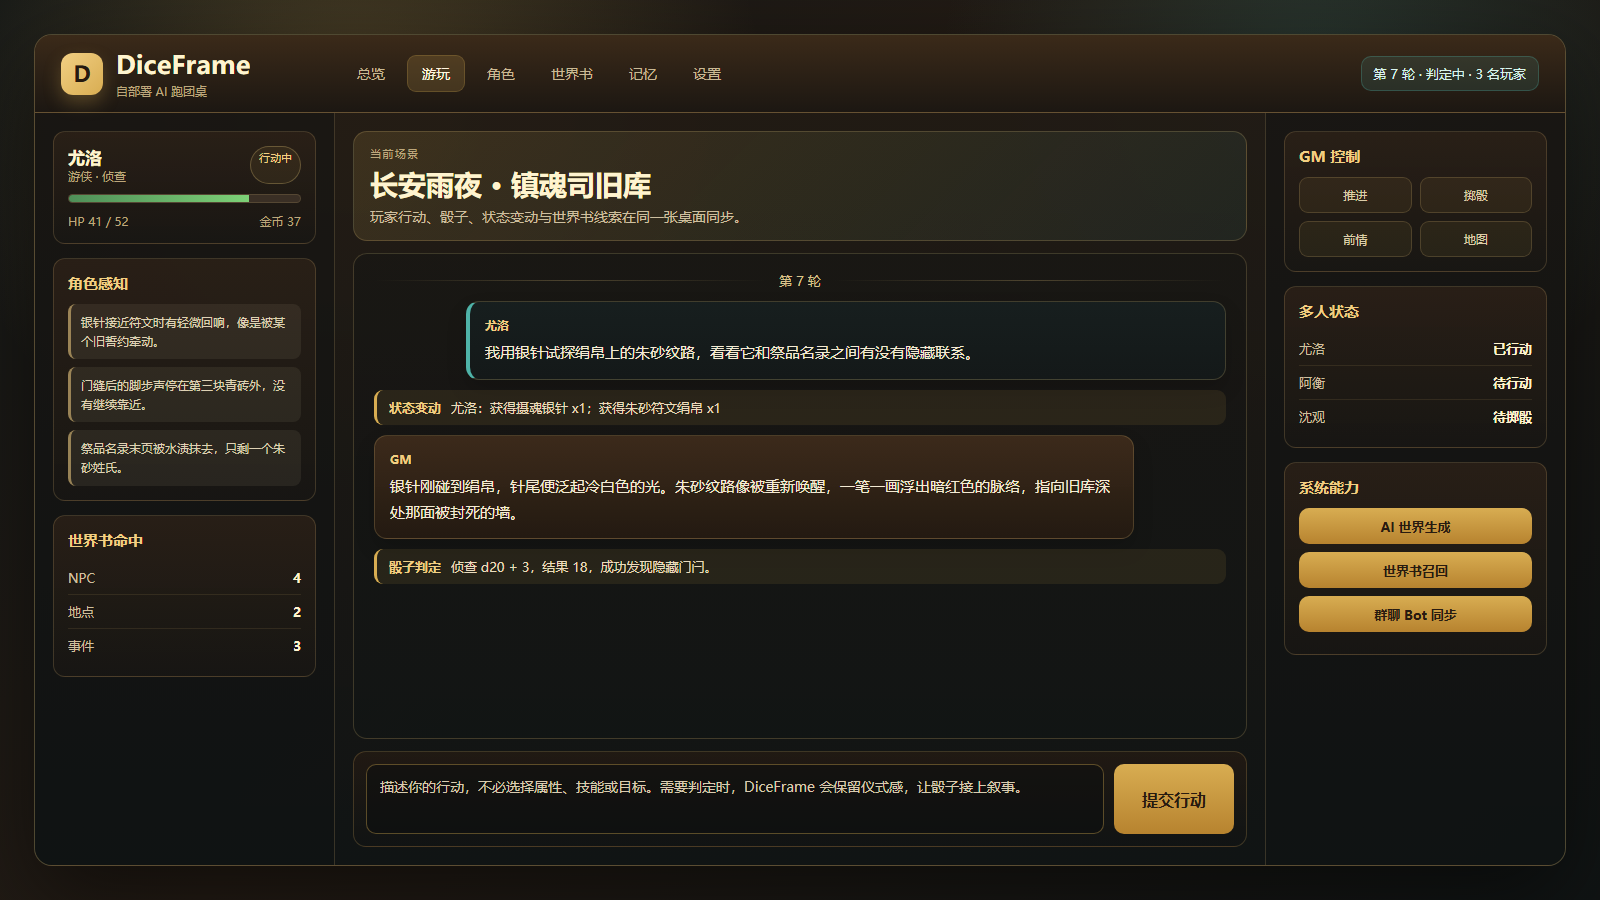
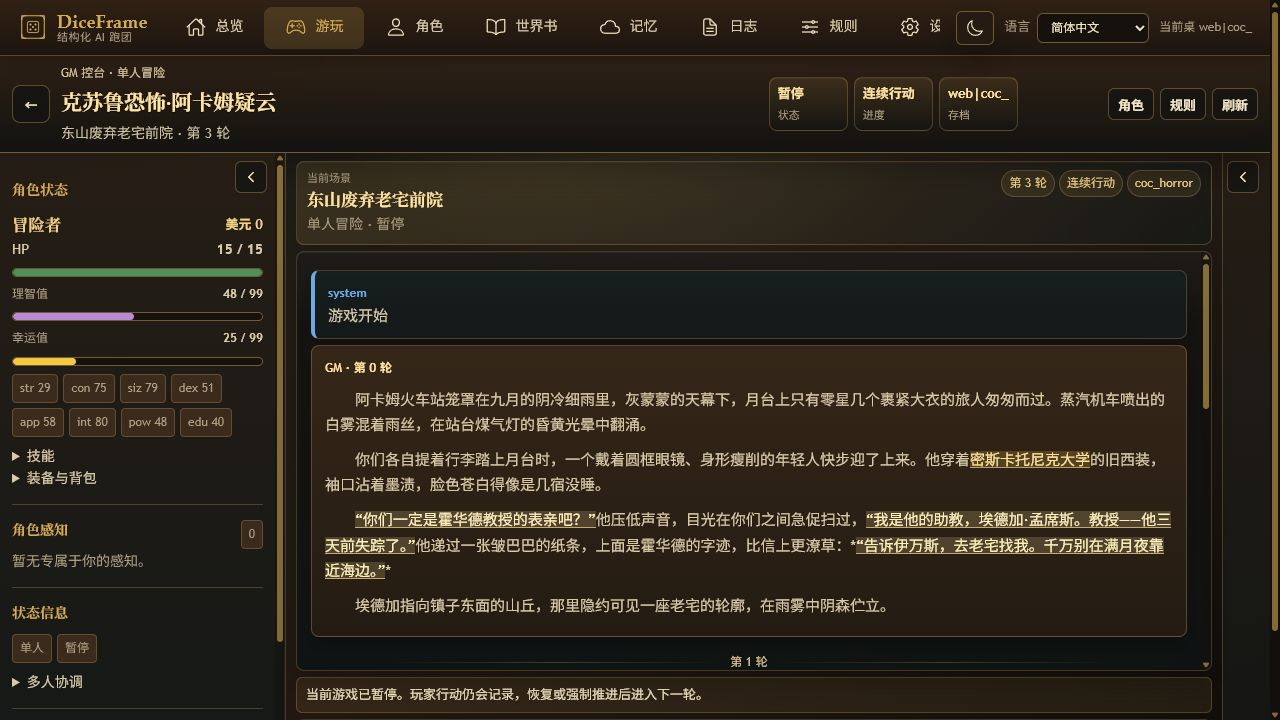
docs: refresh README branding and preview

diff --git a/README.md b/README.md
@@ -1,4 +1,8 @@
-# DiceFrame
+<p align="center">
+  <img src="docs/assets/diceframe-logo.svg" width="144" height="144" alt="DiceFrame Logo">
+</p>
+
+<h1 align="center">DiceFrame</h1>
 
 [English](README_EN.md) | 中文
 

diff --git a/README_EN.md b/README_EN.md
@@ -1,4 +1,8 @@
-# DiceFrame
+<p align="center">
+  <img src="docs/assets/diceframe-logo.svg" width="144" height="144" alt="DiceFrame Logo">
+</p>
+
+<h1 align="center">DiceFrame</h1>
 
 English | [中文](README.md)
 